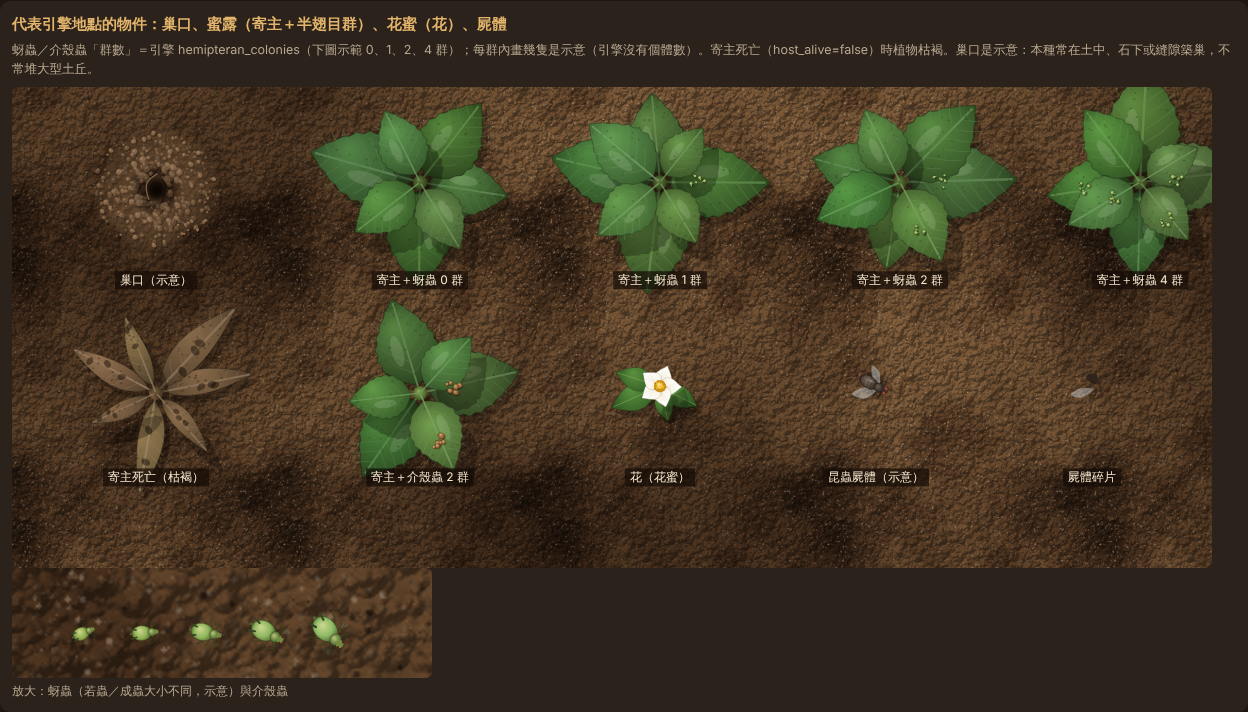
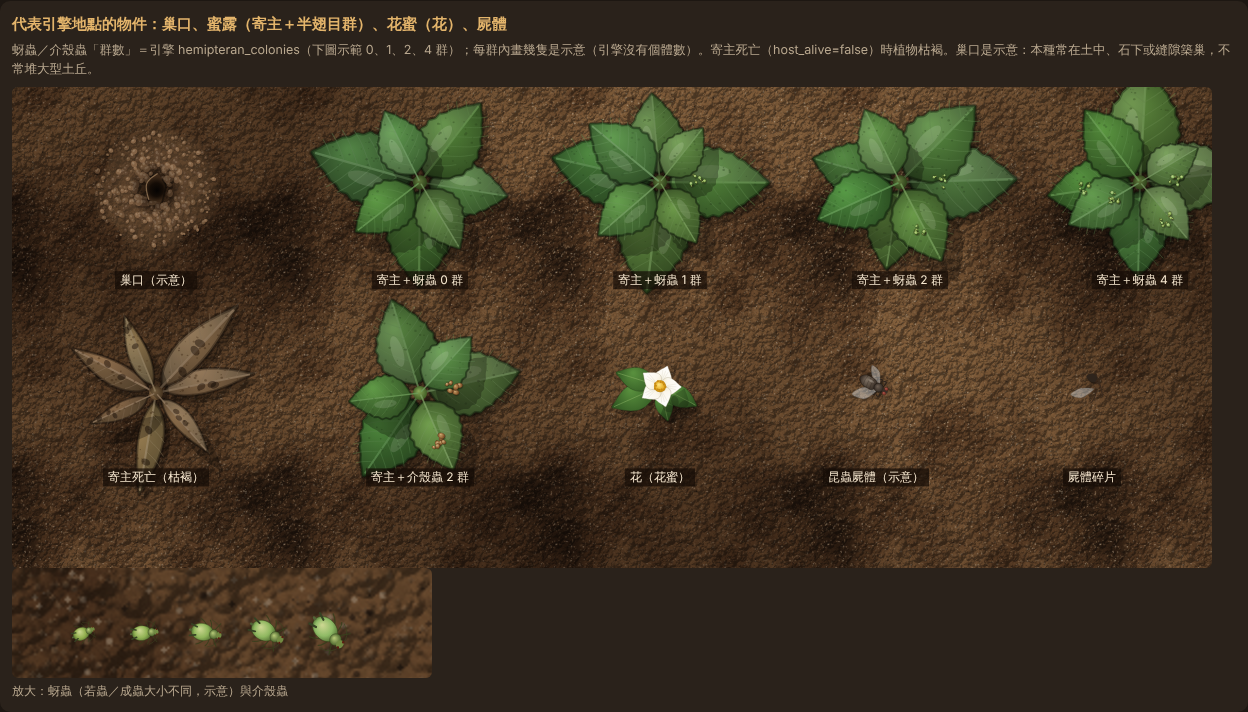
Refine ant proportions (shorter clubbed legs, shorter elbowed antennae, smaller head and gaster) and leaf shading
Claude-Session: https://claude.ai/code/session_01FN3JKHwWzwCMErcRAJv7Ef

diff --git a/web/src/art-ant.ts b/web/src/art-ant.ts
@@ -16,10 +16,10 @@ import { P, ellipse, light, smoothClosed, smoothstep, type DrawList, type Shape 
 export const WALK_FRAMES = 12;
 export const IDLE_FRAMES = 8;
 /** foot travel during one stance, in body-length/100 units (遊戲假設) */
-export const STRIDE = 14;
+export const STRIDE = 10;
 export const CYCLE_ADVANCE = 2 * STRIDE;
 /** sprite bounds in local units (legs and antennae included) */
-export const ANT_EXTENT = { x0: -66, x1: 84, y0: -48, y1: 48 } as const;
+export const ANT_EXTENT = { x0: -56, x1: 74, y0: -38, y1: 38 } as const;
 /** body height above the ground in local units (the renderer offsets the shadow in SCREEN space by light().shadow) */
 export const ANT_BODY_HEIGHT = 5;
 
@@ -42,9 +42,9 @@ export const ANT_PALETTE = {
 interface Leg { id: LegId; side: -1 | 1; base: [number, number]; coxa: number; femur: number; tibia: number; tarsus: number; foot: [number, number]; tarsDir: [number, number]; w: number }
 /** coxal insertions on the mesosoma (fore, mid, hind) and neutral foot placement (right side; left mirrors y) */
 const LEG_DEF: Omit<Leg, 'id' | 'side'>[] = [
-  { base: [15.5, 3.6], coxa: 4.2, femur: 15, tibia: 13, tarsus: 12, foot: [37, 29], tarsDir: [0.78, 0.62], w: 2.7 },
-  { base: [6.5, 3.4], coxa: 3.4, femur: 15.5, tibia: 14.5, tarsus: 12.5, foot: [5, 35], tarsDir: [-0.05, 1], w: 2.5 },
-  { base: [0.5, 3.0], coxa: 3.8, femur: 19, tibia: 18, tarsus: 15, foot: [-33, 31], tarsDir: [-0.82, 0.57], w: 2.5 },
+  { base: [15.5, 3.6], coxa: 3.8, femur: 11, tibia: 10, tarsus: 8, foot: [31, 22], tarsDir: [0.78, 0.62], w: 3.3 },
+  { base: [6.5, 3.4], coxa: 3.0, femur: 11, tibia: 10.5, tarsus: 8.5, foot: [4, 27], tarsDir: [-0.05, 1], w: 3.1 },
+  { base: [0.5, 3.0], coxa: 3.4, femur: 13.5, tibia: 12.5, tarsus: 10, foot: [-26, 23], tarsDir: [-0.82, 0.57], w: 3.1 },
 ];
 export const LEGS: Leg[] = (['L', 'R'] as const).flatMap((s) => LEG_DEF.map((d, i) => {
   const side = s === 'L' ? -1 : 1 as -1 | 1;
@@ -109,17 +109,17 @@ export interface LegPose { id: LegId; set: 'A' | 'B'; stance: boolean; lift: num
 export interface AntPose { legs: LegPose[]; ant: { L: [number, number][]; R: [number, number][] }; headYaw: number; gasterYaw: number }
 
 /** Antenna: scape from the torulus, elbow, then 11 funicular segments ending in a 3-segment club (12 segments). */
-const FUNICULUS = [1.6, 1.25, 1.25, 1.25, 1.3, 1.35, 1.4, 1.5, 2.7, 3.0, 4.3]; // segment lengths, units (示意)
+const FUNICULUS = [1.4, 1.05, 1.05, 1.05, 1.1, 1.15, 1.2, 1.3, 2.3, 2.6, 3.7]; // segment lengths, units (示意)
 const FUN_W = [1.7, 1.5, 1.5, 1.5, 1.55, 1.6, 1.7, 1.85, 2.6, 2.95, 3.1];
 /** the funiculus is angled down toward the substrate, so from above it reads shorter (foreshortening, 示意) */
 const FUN_FORESHORTEN = 0.8;
 export const ANTENNA_SEGMENTS = 1 + FUNICULUS.length; // scape + 11 = 12
 export const ANTENNA_CLUB = 3;
 function antenna(side: number, scapeAng: number, funAng: number): [number, number][] {
-  const root: [number, number] = [40.5, 3.6 * side], scape = 21;
+  const root: [number, number] = [40, 3.4 * side], scape = 18; // scape ≈ head length (reaches the back of the head when laid back)
   const elbow: [number, number] = [root[0] + Math.cos(scapeAng) * scape, root[1] + Math.sin(scapeAng) * scape * side];
   const pts: [number, number][] = [root, elbow]; let a = funAng, x = elbow[0], y = elbow[1];
-  for (let i = 0; i < FUNICULUS.length; i++) { a += -0.065; const l = FUNICULUS[i] * FUN_FORESHORTEN; x += Math.cos(a) * l; y += Math.sin(a) * l * side; pts.push([x, y]); }
+  for (let i = 0; i < FUNICULUS.length; i++) { a += -0.075; const l = FUNICULUS[i] * FUN_FORESHORTEN; x += Math.cos(a) * l; y += Math.sin(a) * l * side; pts.push([x, y]); }
   return pts;
 }
 
@@ -143,7 +143,7 @@ export function antPose(kind: Gait, frame: number): AntPose {
   const sw = (side: number) => stepping ? Math.sin(w + (side > 0 ? 0 : Math.PI)) : Math.sin(w + side) * 0.6 + Math.sin(2 * w + side * 2) * 0.5;
   // angles are measured from the body axis toward the OUTSIDE: the scape points antero-laterally, the funiculus forward
   const lean = (side: number) => turn * side * 0.18;
-  const ant = { L: antenna(-1, 0.66 + sw(-1) * 0.09 + lean(-1), 0.42 + sw(-1) * 0.15 + lean(-1)), R: antenna(1, 0.66 + sw(1) * 0.09 + lean(1), 0.42 + sw(1) * 0.15 + lean(1)) };
+  const ant = { L: antenna(-1, 0.98 + sw(-1) * 0.08 + lean(-1), 0.3 + sw(-1) * 0.14 + lean(-1)), R: antenna(1, 0.98 + sw(1) * 0.08 + lean(1), 0.3 + sw(1) * 0.14 + lean(1)) };
   const sway = stepping && !kind.startsWith('pivot') ? 1 : 0.3;
   return { legs, ant, headYaw: stepping ? Math.sin(w) * 0.035 * sway + turn * 0.07 : 0, gasterYaw: stepping ? -Math.sin(w) * 0.05 * sway - turn * 0.06 : 0 };
 }
@@ -172,11 +172,11 @@ function legShapes(lp: LegPose): DrawList {
   out.push(OUT(taper(b[0], b[1], ce[0], ce[1], lg.w + 1.4, lg.w + 0.8), cyl(b[0], b[1], ce[0], ce[1], lg.w + 1.4, '#a5672f', '#c98c52')));
   // femur: clubbed in its distal half
   const fm: [number, number] = [ce[0] + (k[0] - ce[0]) * 0.55, ce[1] + (k[1] - ce[1]) * 0.55];
-  seg(ce, fm, lg.w * 0.85, lg.w * 1.18); seg(fm, k, lg.w * 1.18, lg.w * 0.82);
-  seg(k, t, lg.w * 0.72, lg.w * 0.6);                                                    // tibia
+  seg(ce, fm, lg.w * 0.85, lg.w * 1.3); seg(fm, k, lg.w * 1.3, lg.w * 0.8);
+  seg(k, t, lg.w * 0.6, lg.w * 0.48);                                                    // tibia
   // tarsus: basitarsus + distal tarsomeres, then the pretarsal claw
   const mx = t[0] + (f[0] - t[0]) * 0.52, my = t[1] + (f[1] - t[1]) * 0.52;
-  seg(t, [mx, my], lg.w * 0.5, lg.w * 0.42, 0.42); seg([mx, my], f, lg.w * 0.42, lg.w * 0.3, 0.42);
+  seg(t, [mx, my], lg.w * 0.42, lg.w * 0.34, 0.42); seg([mx, my], f, lg.w * 0.34, lg.w * 0.26, 0.42);
   const dl = Math.hypot(f[0] - t[0], f[1] - t[1]) || 1, ux = (f[0] - t[0]) / dl, uy = (f[1] - t[1]) / dl;
   for (let i = 1; i <= 3; i++) { const q = 0.52 + i * 0.12, bx = t[0] + (f[0] - t[0]) * q, by = t[1] + (f[1] - t[1]) * q; out.push({ d: ellipse(bx, by, 0.32, 0.32), fill: 'rgba(60,30,10,0.55)' }); } // tarsomere joints
   out.push({ d: new P().M(f[0] - uy * 0.45, f[1] + ux * 0.45).L(f[0] + ux * 0.7, f[1] + uy * 0.7).L(f[0] + uy * 0.45, f[1] - ux * 0.45).toString(), stroke: 'rgba(38,18,6,0.7)', lw: 0.22, cap: 'round' });
@@ -199,19 +199,19 @@ function bodyShapes(pose: AntPose, silhouette = false): DrawList {
   const P_ = ANT_PALETTE, out: DrawList = [];
   const S = (d: string, fill: Shape['fill'], lw?: number) => out.push(silhouette ? { d, fill: '#000' } : OUT(d, fill, lw));
   // gaster (pivot at the postpetiole), smooth and shiny
-  const gpts = rotAbout(Array.from({ length: 18 }, (_, i) => { const a = (i / 18) * Math.PI * 2, rx = 14.6, ry = 10.6; const k = Math.cos(a) > 0 ? 1 - 0.18 * Math.cos(a) ** 3 : 1; return [-36 + Math.cos(a) * rx, Math.sin(a) * ry * k] as [number, number]; }), -21, 0, pose.gasterYaw);
-  S(smoothClosed(gpts), dorsal(-36, 0, 14.6, 10.6, P_.gaster), 0.6);
+  const gpts = rotAbout(Array.from({ length: 18 }, (_, i) => { const a = (i / 18) * Math.PI * 2, rx = 13.4, ry = 9.2; const k = Math.cos(a) > 0 ? 1 - 0.16 * Math.cos(a) ** 3 : 1; return [-34 + Math.cos(a) * rx, Math.sin(a) * ry * k] as [number, number]; }), -21, 0, pose.gasterYaw);
+  S(smoothClosed(gpts), dorsal(-34, 0, 13.4, 9.2, P_.gaster), 0.6);
   // postpetiole (broader than the petiole) and petiole node with its anterior peduncle
-  const pp = rotAbout([[-18.6, 0]], -21, 0, pose.gasterYaw * 0.5)[0];
-  S(ellipse(pp[0], pp[1], 3.5, 3.6), dorsal(pp[0], pp[1], 3.5, 3.6, P_.waist), 0.45);
+  const pp = rotAbout([[-17.4, 0]], -21, 0, pose.gasterYaw * 0.5)[0];
+  S(ellipse(pp[0], pp[1], 2.7, 2.9), dorsal(pp[0], pp[1], 2.7, 2.9, P_.waist), 0.45);
   S(taper(-7.6, 0, -11, 0, 1.6, 1.8), P_.waist[1], 0.4);
-  S(ellipse(-12.7, 0, 2.4, 2.5), dorsal(-12.7, 0, 2.4, 2.5, P_.waist), 0.45);
+  S(ellipse(-12.4, 0, 1.9, 2.0), dorsal(-12.4, 0, 1.9, 2.0, P_.waist), 0.45);
   // mesosoma: domed pronotum, narrower mesonotum, metanotal groove, propodeum with two short spines
-  const half: [number, number][] = [[21.2, 0], [20.3, 4.2], [17.6, 6.6], [13.8, 6.8], [10.4, 5.2], [7.6, 3.6], [5.2, 3.2], [3.0, 2.4], [1.6, 2.5], [-1.4, 3.3], [-4.4, 3.4], [-7.0, 2.3]];
+  const half: [number, number][] = [[21.4, 0], [20.6, 4.9], [18.0, 7.3], [14.4, 7.1], [11.2, 5.0], [8.2, 3.3], [5.6, 2.9], [3.0, 2.0], [1.6, 2.3], [-1.4, 3.1], [-4.4, 3.2], [-7.0, 2.1]];
   const mpts: [number, number][] = [...half, [-8.0, 0], ...half.slice(1).reverse().map(([x, y]) => [x, -y] as [number, number])];
   for (const sd of [-1, 1]) S(new P().M(-3.4, 2.9 * sd).Q(-7.2, 4.4 * sd, -9.6, 5.6 * sd).Q(-7.6, 3.4 * sd, -6.4, 1.8 * sd).Z().toString(), P_.meso[1], 0.35); // propodeal spines
   S(smoothClosed(mpts, 0.85), dorsal(11, 0, 12, 6.5, P_.meso), 0.55);
-  if (!silhouette) out.push({ d: ellipse(15.5, 0, 4.6, 4.2), fill: { rad: [15.5, 0, 0, 15.5, 0, 5], stops: [[0, 'rgba(255,225,180,0.35)'], [1, 'rgba(255,225,180,0)']] }, blend: 'screen' }); // pronotal dome
+  if (!silhouette) out.push({ d: ellipse(15.8, 0, 5, 4.8), fill: { rad: [15.8, 0, 0, 15.8, 0, 5.4], stops: [[0, 'rgba(255,225,180,0.35)'], [1, 'rgba(255,225,180,0)']] }, blend: 'screen' }); // pronotal dome
   if (!silhouette) {
     out.push({ d: new P().M(9.6, -4.6).Q(8.4, 0, 9.6, 4.6).toString(), stroke: 'rgba(60,28,10,0.4)', lw: 0.4 }); // promesonotal suture
     out.push({ d: new P().M(2.4, -2.4).Q(1.6, 0, 2.4, 2.4).toString(), stroke: 'rgba(60,28,10,0.65)', lw: 0.55 });   // metanotal groove
@@ -225,18 +225,18 @@ function bodyShapes(pose: AntPose, silhouette = false): DrawList {
     if (!silhouette) for (let i = 0; i < 3; i++) { const q = hp([[46.6 + i * 0.95, (1.0 - i * 0.55) * sd]])[0]; out.push({ d: ellipse(q[0], q[1], 0.32, 0.28), fill: 'rgba(40,18,6,0.85)' }); } // teeth
   }
   // Pheidole minor head: about as long as broad, sides convex, posterior margin rounded, clypeus narrowing to the front
-  const hpts = hp(Array.from({ length: 22 }, (_, i) => { const a = (i / 22) * Math.PI * 2, c = Math.cos(a), s = Math.sin(a); const rx = 12, ry = 10.6 * (c > 0 ? 1 - 0.22 * c * c : 1 - 0.06 * c * c); return [33 + c * rx, s * ry] as [number, number]; }));
+  const hpts = hp(Array.from({ length: 22 }, (_, i) => { const a = (i / 22) * Math.PI * 2, c = Math.cos(a), s = Math.sin(a); const rx = 11, ry = 10.2 * (c > 0 ? 1 - 0.22 * c * c : 1 - 0.06 * c * c); return [33 + c * rx, s * ry] as [number, number]; }));
   const hc = hp([[33, 0]])[0];
-  S(smoothClosed(hpts), dorsal(hc[0], hc[1], 12, 10.6, P_.head), 0.6);
+  S(smoothClosed(hpts), dorsal(hc[0], hc[1], 11, 10.2, P_.head), 0.6);
   if (silhouette) return out;
   // frontal carinae, clypeal margin, eyes (moderately small, set at the sides forward of mid-length)
   for (const sd of [-1, 1]) { const c = hp([[37.5, 2.3 * sd], [41.5, 3.5 * sd]]); out.push({ d: new P().M(c[0][0], c[0][1]).L(c[1][0], c[1][1]).toString(), stroke: 'rgba(70,32,10,0.55)', lw: 0.4 }); }
   { const c = hp([[42.3, -4], [44.6, 0], [42.3, 4]]); out.push({ d: new P().M(c[0][0], c[0][1]).Q(c[1][0], c[1][1], c[2][0], c[2][1]).toString(), stroke: 'rgba(70,32,10,0.5)', lw: 0.4 }); }
-  for (const sd of [-1, 1]) { const e = hp([[35.2, 8.9 * sd]])[0]; out.push({ d: ellipse(e[0], e[1], 1.75, 1.25, 0.2 * sd), fill: { rad: [e[0] - 0.3, e[1] - 0.2, 0.1, e[0], e[1], 1.9], stops: [[0, '#6b5747'], [0.45, '#2c1d13'], [1, '#120a05']] }, stroke: 'rgba(20,8,2,0.8)', lw: 0.25 }); }
+  for (const sd of [-1, 1]) { const e = hp([[35.0, 8.6 * sd]])[0]; out.push({ d: ellipse(e[0], e[1], 1.75, 1.25, 0.2 * sd), fill: { rad: [e[0] - 0.3, e[1] - 0.2, 0.1, e[0], e[1], 1.9], stops: [[0, '#6b5747'], [0.45, '#2c1d13'], [1, '#120a05']] }, stroke: 'rgba(20,8,2,0.8)', lw: 0.25 }); }
   // posterior gastral tergites (the first tergite covers most of the gaster)
-  { const g = rotAbout([[-44.5, -8.4], [-47.8, 0], [-44.5, 8.4]], -21, 0, pose.gasterYaw); out.push({ d: new P().M(g[0][0], g[0][1]).Q(g[1][0], g[1][1], g[2][0], g[2][1]).toString(), stroke: 'rgba(10,4,0,0.45)', lw: 0.45 }); }
+  { const g = rotAbout([[-42.4, -7.3], [-45.4, 0], [-42.4, 7.3]], -21, 0, pose.gasterYaw); out.push({ d: new P().M(g[0][0], g[0][1]).Q(g[1][0], g[1][1], g[2][0], g[2][1]).toString(), stroke: 'rgba(10,4,0,0.45)', lw: 0.45 }); }
   // a few pale erect setae (示意)
-  for (const [x, y] of [[30, -3], [30, 3], [26, -5.5], [26, 5.5], [-32, -4], [-36, 3], [-42, -2], [14, -2], [14, 2]] as [number, number][]) {
+  for (const [x, y] of [[30, -3], [30, 3], [26, -5.5], [26, 5.5], [-30, -4], [-34, 3], [-40, -2], [14, -2], [14, 2]] as [number, number][]) {
     const q = hp([[x, y]])[0], [sx, sy] = x < 0 ? rotAbout([[x, y]], -21, 0, pose.gasterYaw)[0] : x > 21 ? q : [x, y];
     out.push({ d: new P().M(sx, sy).L(sx - 0.6, sy + (y > 0 ? 0.45 : -0.45)).toString(), stroke: 'rgba(255,236,200,0.45)', lw: 0.2, cap: 'round' });
   }
@@ -262,8 +262,8 @@ export function antGlints(heading: number): DrawList {
   // direction toward the active key light, rotated into the ant's local frame (no glint when the sun is down)
   const L = light(); if (L.intensity <= 0) return []; const lx = -L.dir.x, ly = -L.dir.y, c = Math.cos(-heading), s = Math.sin(-heading), x = lx * c - ly * s, y = lx * s + ly * c;
   return [
-    { d: ellipse(-36 + x * 5.5, y * 4.6, 4.6, 2.6, Math.atan2(y, x) + Math.PI / 2), fill: { rad: [-36 + x * 6, y * 5, 0, -36 + x * 6, y * 5, 4.8], stops: [[0, 'rgba(255,246,232,0.75)'], [0.35, 'rgba(255,236,210,0.28)'], [1, 'rgba(255,236,210,0)']] }, blend: 'screen' },
-    { d: ellipse(-36 - x * 7, -y * 6, 6, 3, Math.atan2(y, x) + Math.PI / 2), fill: 'rgba(0,0,0,0.12)', blend: 'multiply' },
+    { d: ellipse(-34 + x * 5, y * 4, 4.2, 2.4, Math.atan2(y, x) + Math.PI / 2), fill: { rad: [-34 + x * 5.5, y * 4.4, 0, -34 + x * 5.5, y * 4.4, 4.4], stops: [[0, 'rgba(255,246,232,0.75)'], [0.35, 'rgba(255,236,210,0.28)'], [1, 'rgba(255,236,210,0)']] }, blend: 'screen' },
+    { d: ellipse(-34 - x * 6.4, -y * 5.2, 5.4, 2.7, Math.atan2(y, x) + Math.PI / 2), fill: 'rgba(0,0,0,0.12)', blend: 'multiply' },
     { d: ellipse(32 + x * 4, y * 3.8, 3.2, 1.9, Math.atan2(y, x) + Math.PI / 2), fill: { rad: [32 + x * 4, y * 3.8, 0, 32 + x * 4, y * 3.8, 3.4], stops: [[0, 'rgba(255,240,215,0.5)'], [1, 'rgba(255,240,215,0)']] }, blend: 'screen' },
     { d: ellipse(14 + x * 2.5, y * 2.4, 3.2, 1.6, Math.atan2(y, x) + Math.PI / 2), fill: { rad: [14 + x * 2.5, y * 2.4, 0, 14 + x * 2.5, y * 2.4, 3.4], stops: [[0, 'rgba(255,240,215,0.38)'], [1, 'rgba(255,240,215,0)']] }, blend: 'screen' },
   ];

diff --git a/web/src/art-props.ts b/web/src/art-props.ts
@@ -86,6 +86,10 @@ export function hostPlant(seed: number, x: number, y: number, o: HostPlantOption
     const mid = T(size * 0.08 + L * 0.5, 0), dst = tier ? high : body, dsh = tier ? highShadow : shadow;
     dsh.push({ d: smoothClosed(shift(pts, sh(hgt))), fill: 'rgba(24,18,6,0.3)', blend: 'multiply' });
     dst.push({ d: smoothClosed(pts, 0.8), fill: litRadial(mid[0], mid[1], L * 0.55, [[0, hsl(hu, sa_, li + 12)], [0.6, hsl(hu, sa_, li)], [1, hsl(hu, sa_ + 4, li - 10)]]), stroke: hsl(hu, sa_, li - 16, 0.8), lw: 0.18 });
+    // leaf folded slightly along the midrib: the half facing the key light is brighter, the other half darker
+    const half = [...pts.slice(0, 17), T(size * 0.08, 0)], lx = Math.sin(a), ly = -Math.cos(a), facing = -(lx * light().dir.x + ly * light().dir.y) > 0;
+    dst.push({ d: smoothClosed(half, 0.8), fill: facing ? 'rgba(255,255,230,0.10)' : 'rgba(10,30,0,0.16)', blend: facing ? 'screen' : 'multiply' });
+    dst.push({ d: smoothClosed(pts, 0.8), stroke: o.alive ? 'rgba(20,40,8,0.35)' : 'rgba(40,24,8,0.35)', lw: L * 0.035, blend: 'multiply' }); // darker, thinner margin
     dst.push({ d: smoothOpen([T(size * 0.02, 0), T(size * 0.08 + L * 0.5, 0), T(size * 0.08 + L * 0.95, 0)]), stroke: hsl(hu, sa_ - 10, li + 18, 0.75), lw: L * 0.022, cap: 'round' });
     let v = ''; for (let k = 1; k < 7; k++) { const u = size * 0.08 + (k / 7.5) * L, w = W * Math.sin(Math.PI * Math.pow(k / 7.5, 0.75)); for (const sd of [-1, 1]) { if (!o.alive && sd > 0) continue; v += smoothOpen([T(u, 0), T(u + w * 0.4, sd * w * 0.55), T(u + w * 0.7, sd * w * 0.85)]); } }
     dst.push({ d: v, stroke: hsl(hu, sa_ - 10, li + 14, 0.45), lw: L * 0.01, cap: 'round' });

diff --git a/docs/game-art-style.md b/docs/game-art-style.md
@@ -53,7 +53,7 @@
 - 俯視小工蟻：頭（三角形閉合大顎、兩側複眼）、**12 節膝狀觸角**（柄節＋11 節鞭節，末 3 節為棍棒）、胸（圓隆前胸、窄中胸、後胸溝、並胸腹節小刺）、**腹柄＋後腹柄兩節**、有光澤的腹部、六足（基節、腿節、脛節、跗節＋爪）。頭寬約體長 0.21（R99 小工蟻頭寬 0.50–0.61 mm ÷ 約 2.5 mm）；其他比例、姿勢是示意。12 節＋3 節棍棒是本屬特徵，repo 尚無引用（§10）。
 - **不畫大工蟻**：引擎沒有記錄任何個體的階級（minor／major 全是 null）。**不畫「搬運」變體**：重播資料有 `food_collected`（糖／蛋白）與回巢行動，但沒有記錄搬運的形式（嗉囊或大顎），未經 Owner 決定不畫。
 - 本體貼圖的明暗是**旋轉對稱**的（中央亮、邊緣暗），因為貼圖會旋轉而光源不會；方向性的反光（`antGlints`）與陰影偏移在繪製時依目前光源計算。
-- **步態**：交替三腳架（A＝左前、右中、左後；B＝右前、左中、右後），每週期 12 幀；支撐相的腳相對身體向後移動 STRIDE，擺動相抬起前移。**相位由移動距離驅動**：`walkCycles(移動 px, 體長 px)`，每走 2×STRIDE（體長 0.28）一個週期，使支撐腳在畫出的比例下不在地面滑動（運動學一致性規則，不是量測步幅）。靜止：腳不動，只有觸角抽動 8 幀。
+- **步態**：交替三腳架（A＝左前、右中、左後；B＝右前、左中、右後），每週期 12 幀；支撐相的腳相對身體向後移動 STRIDE，擺動相抬起前移。**相位由移動距離驅動**：`walkCycles(移動 px, 體長 px)`，每走 2×STRIDE（體長 0.20）一個週期，使支撐腳在畫出的比例下不在地面滑動（運動學一致性規則，不是量測步幅）。靜止：腳不動，只有觸角抽動 8 幀。
 - **轉向**：`curveL/R`（弧線轉彎，內側腳步幅 ×0.4、觸角朝轉向側）、`pivotL/R`（原地轉身，兩側腳沿切線反向掃動；相位由已轉過的角度驅動）。**只在有權威角速度 ω 時使用**（物理解算器的朝向／ω，V6-2）：`selectGait` 在 ω 未提供時只會回傳 walk／idle。sprite 不自行發明轉向；重播資料沒有 ω，朝向只在紀錄的路段轉折處改變，所以重播只用 walk／idle。現行 `game.ts` 的轉身緩動屬「顯示插值」，不得改用轉向列（是否允許請 Owner 決定，§10）。
 - 圖集：每種步態一列（6 列），依「顯示體長 × DPR」烘焙；體長 60 px、DPR 2 時本體＋陰影兩張共約 6 MB。可清楚顯示 26–120 px。
 
